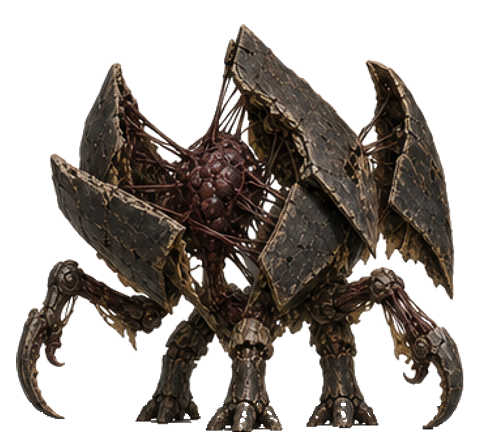
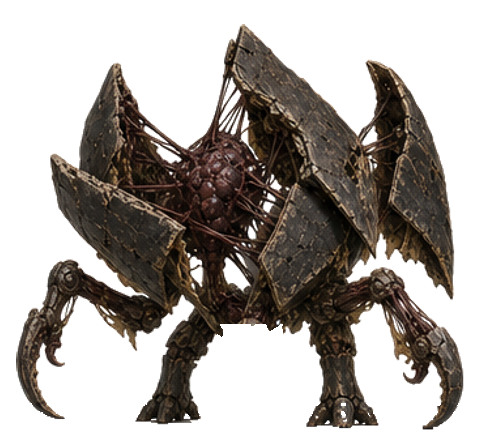
Remove Gairen extra attack leg without changing approved paint or motion

Changed region(s): [[0.4062, 0.7188, 0.5938, 0.9688]]

diff --git a/app/spriteManifest.js b/app/spriteManifest.js
@@ -279,8 +279,8 @@ const NEWCOMER_VISIBLE = Object.freeze({
     left: [[16, 245, 464, 432], [16, 252, 464, 432], [16, 253, 464, 432], [16, 234, 464, 432], [16, 272, 464, 432], [16, 197, 464, 432], [16, 293, 464, 432]],
   },
   gairen: {
-    right: [[16, 31, 464, 432], [40, 16, 440, 432], [16, 45, 464, 432], [16, 19, 464, 432], [16, 24, 464, 432], [21, 16, 459, 432], [16, 233, 464, 432]],
-    left: [[16, 31, 464, 432], [40, 16, 440, 432], [16, 45, 464, 432], [16, 19, 464, 432], [16, 24, 464, 432], [21, 16, 459, 432], [16, 233, 464, 432]],
+    right: [[16, 31, 464, 432], [40, 16, 440, 432], [16, 45, 464, 432], [16, 19, 464, 432], [16, 24, 464, 431], [21, 16, 459, 432], [16, 233, 464, 432]],
+    left: [[16, 31, 464, 432], [40, 16, 440, 432], [16, 45, 464, 432], [16, 19, 464, 432], [16, 24, 464, 431], [21, 16, 459, 432], [16, 233, 464, 432]],
   },
   futago: {
     right: [[17, 16, 463, 432], [63, 16, 418, 432], [35, 16, 445, 432], [16, 28, 464, 432], [25, 16, 456, 432], [27, 16, 454, 432], [16, 204, 464, 432]],
